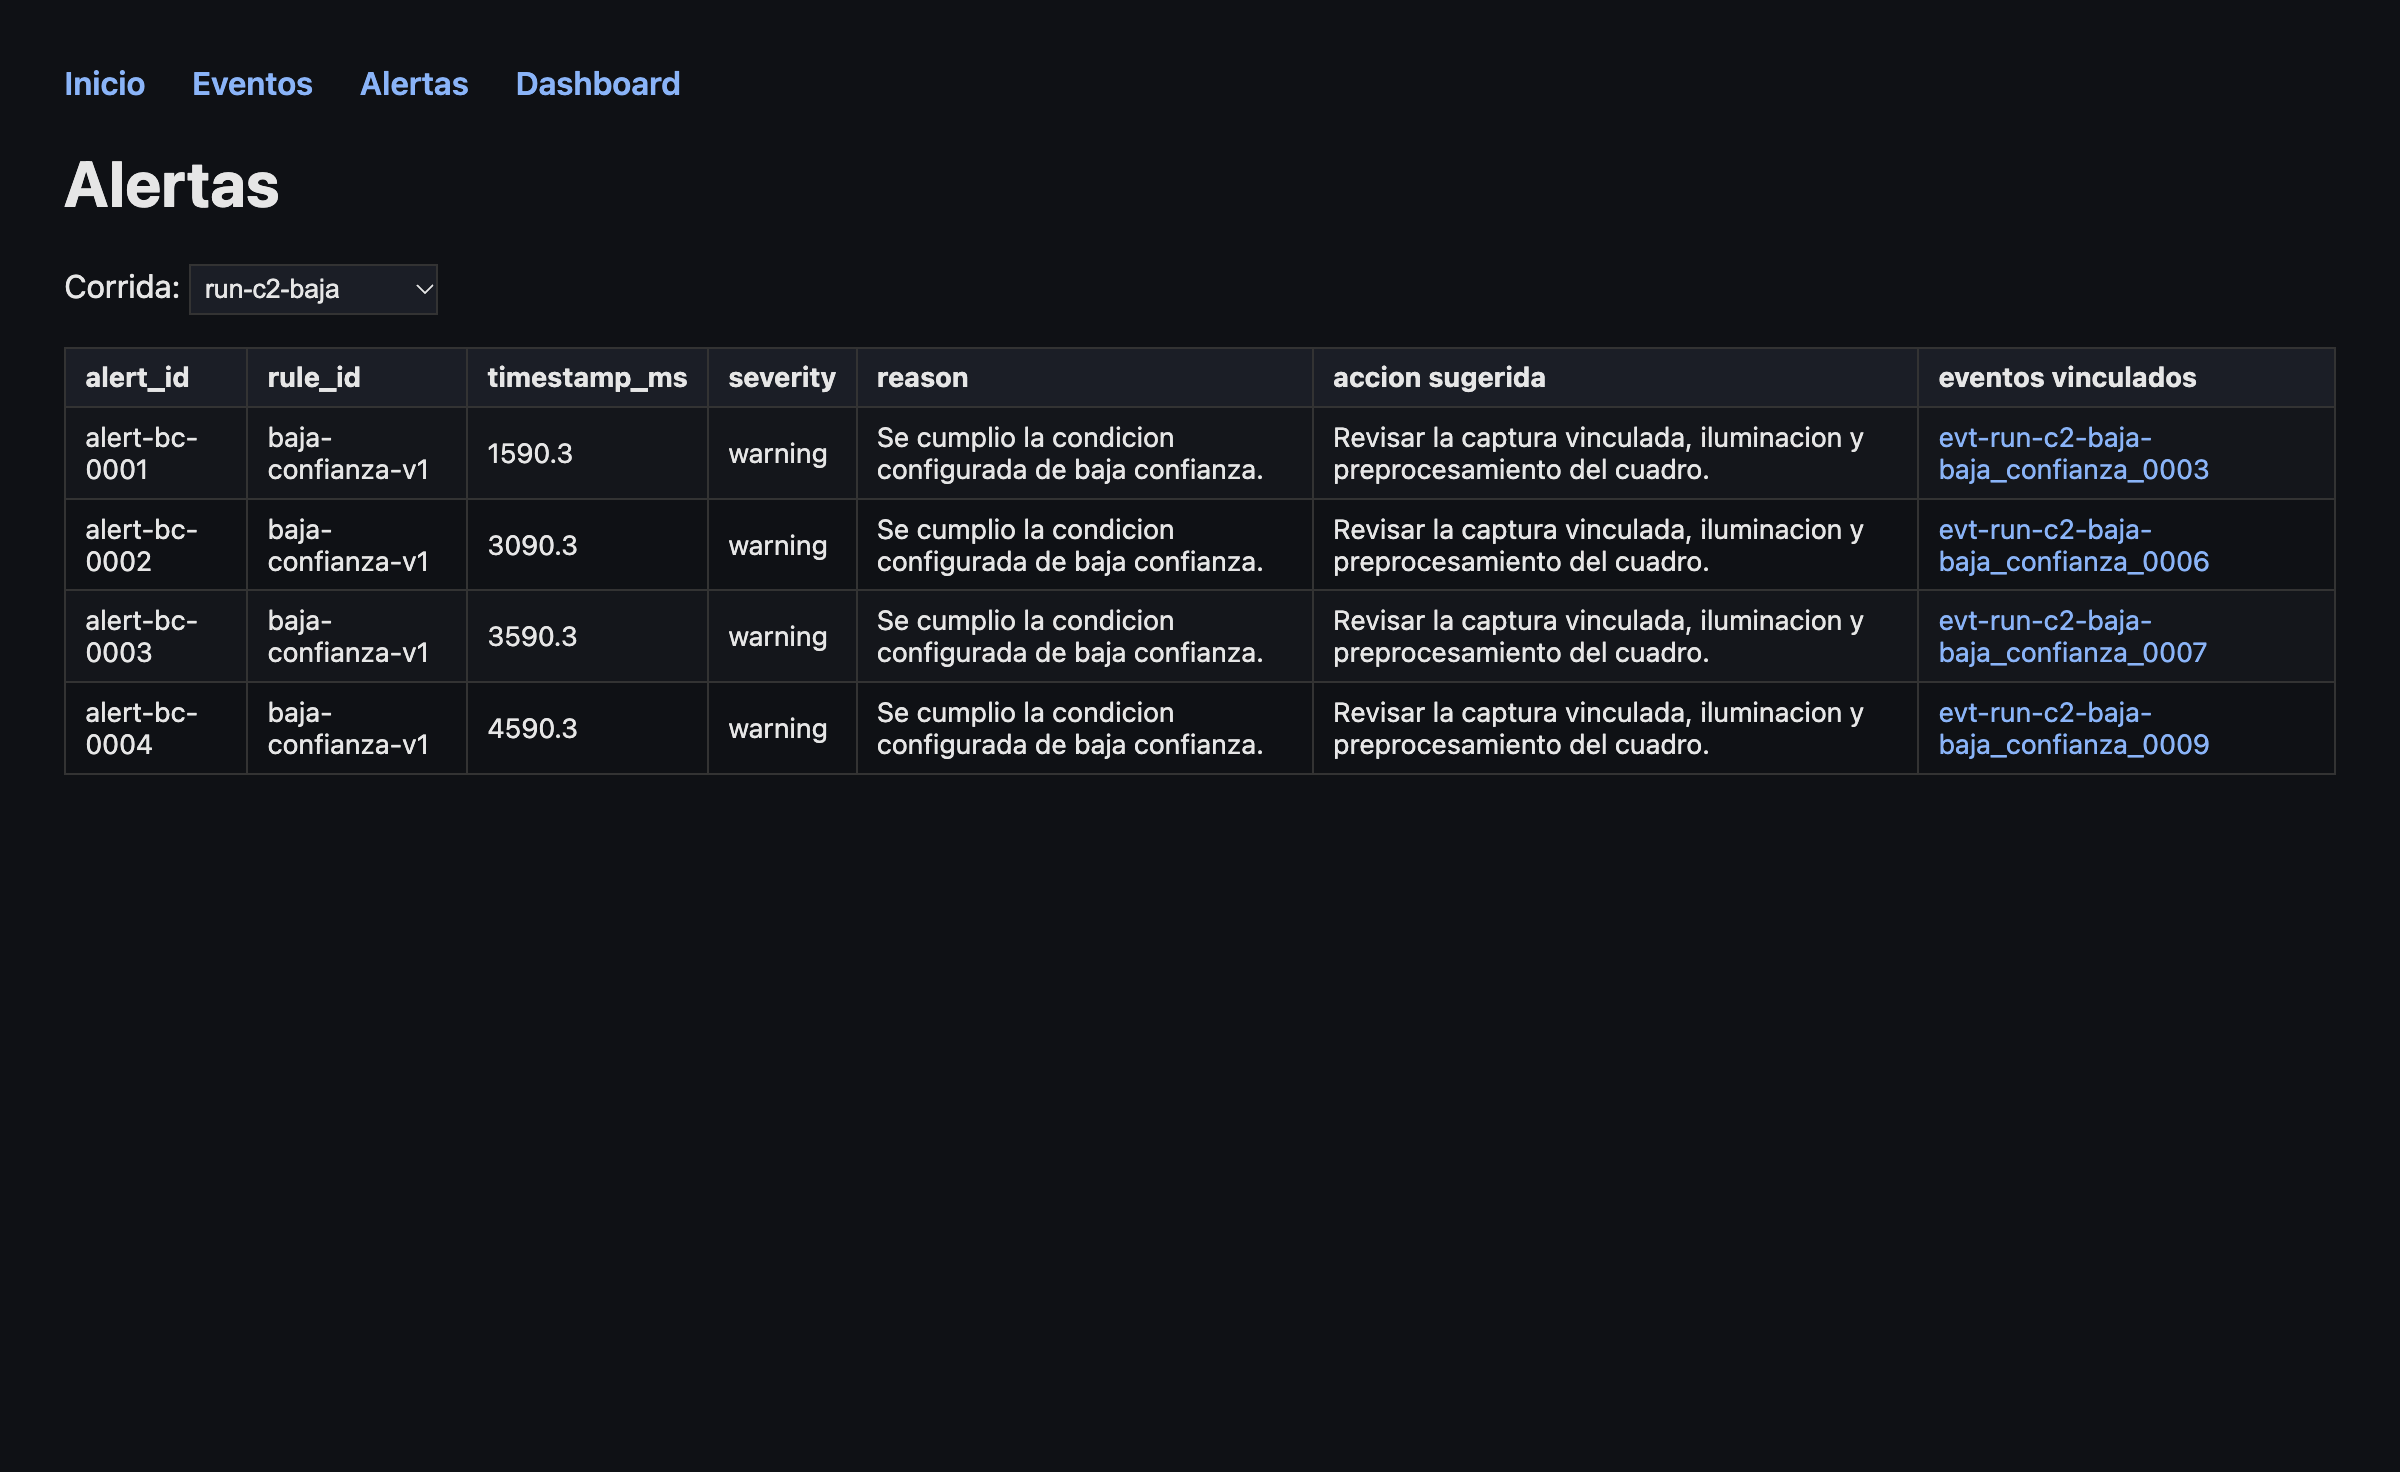
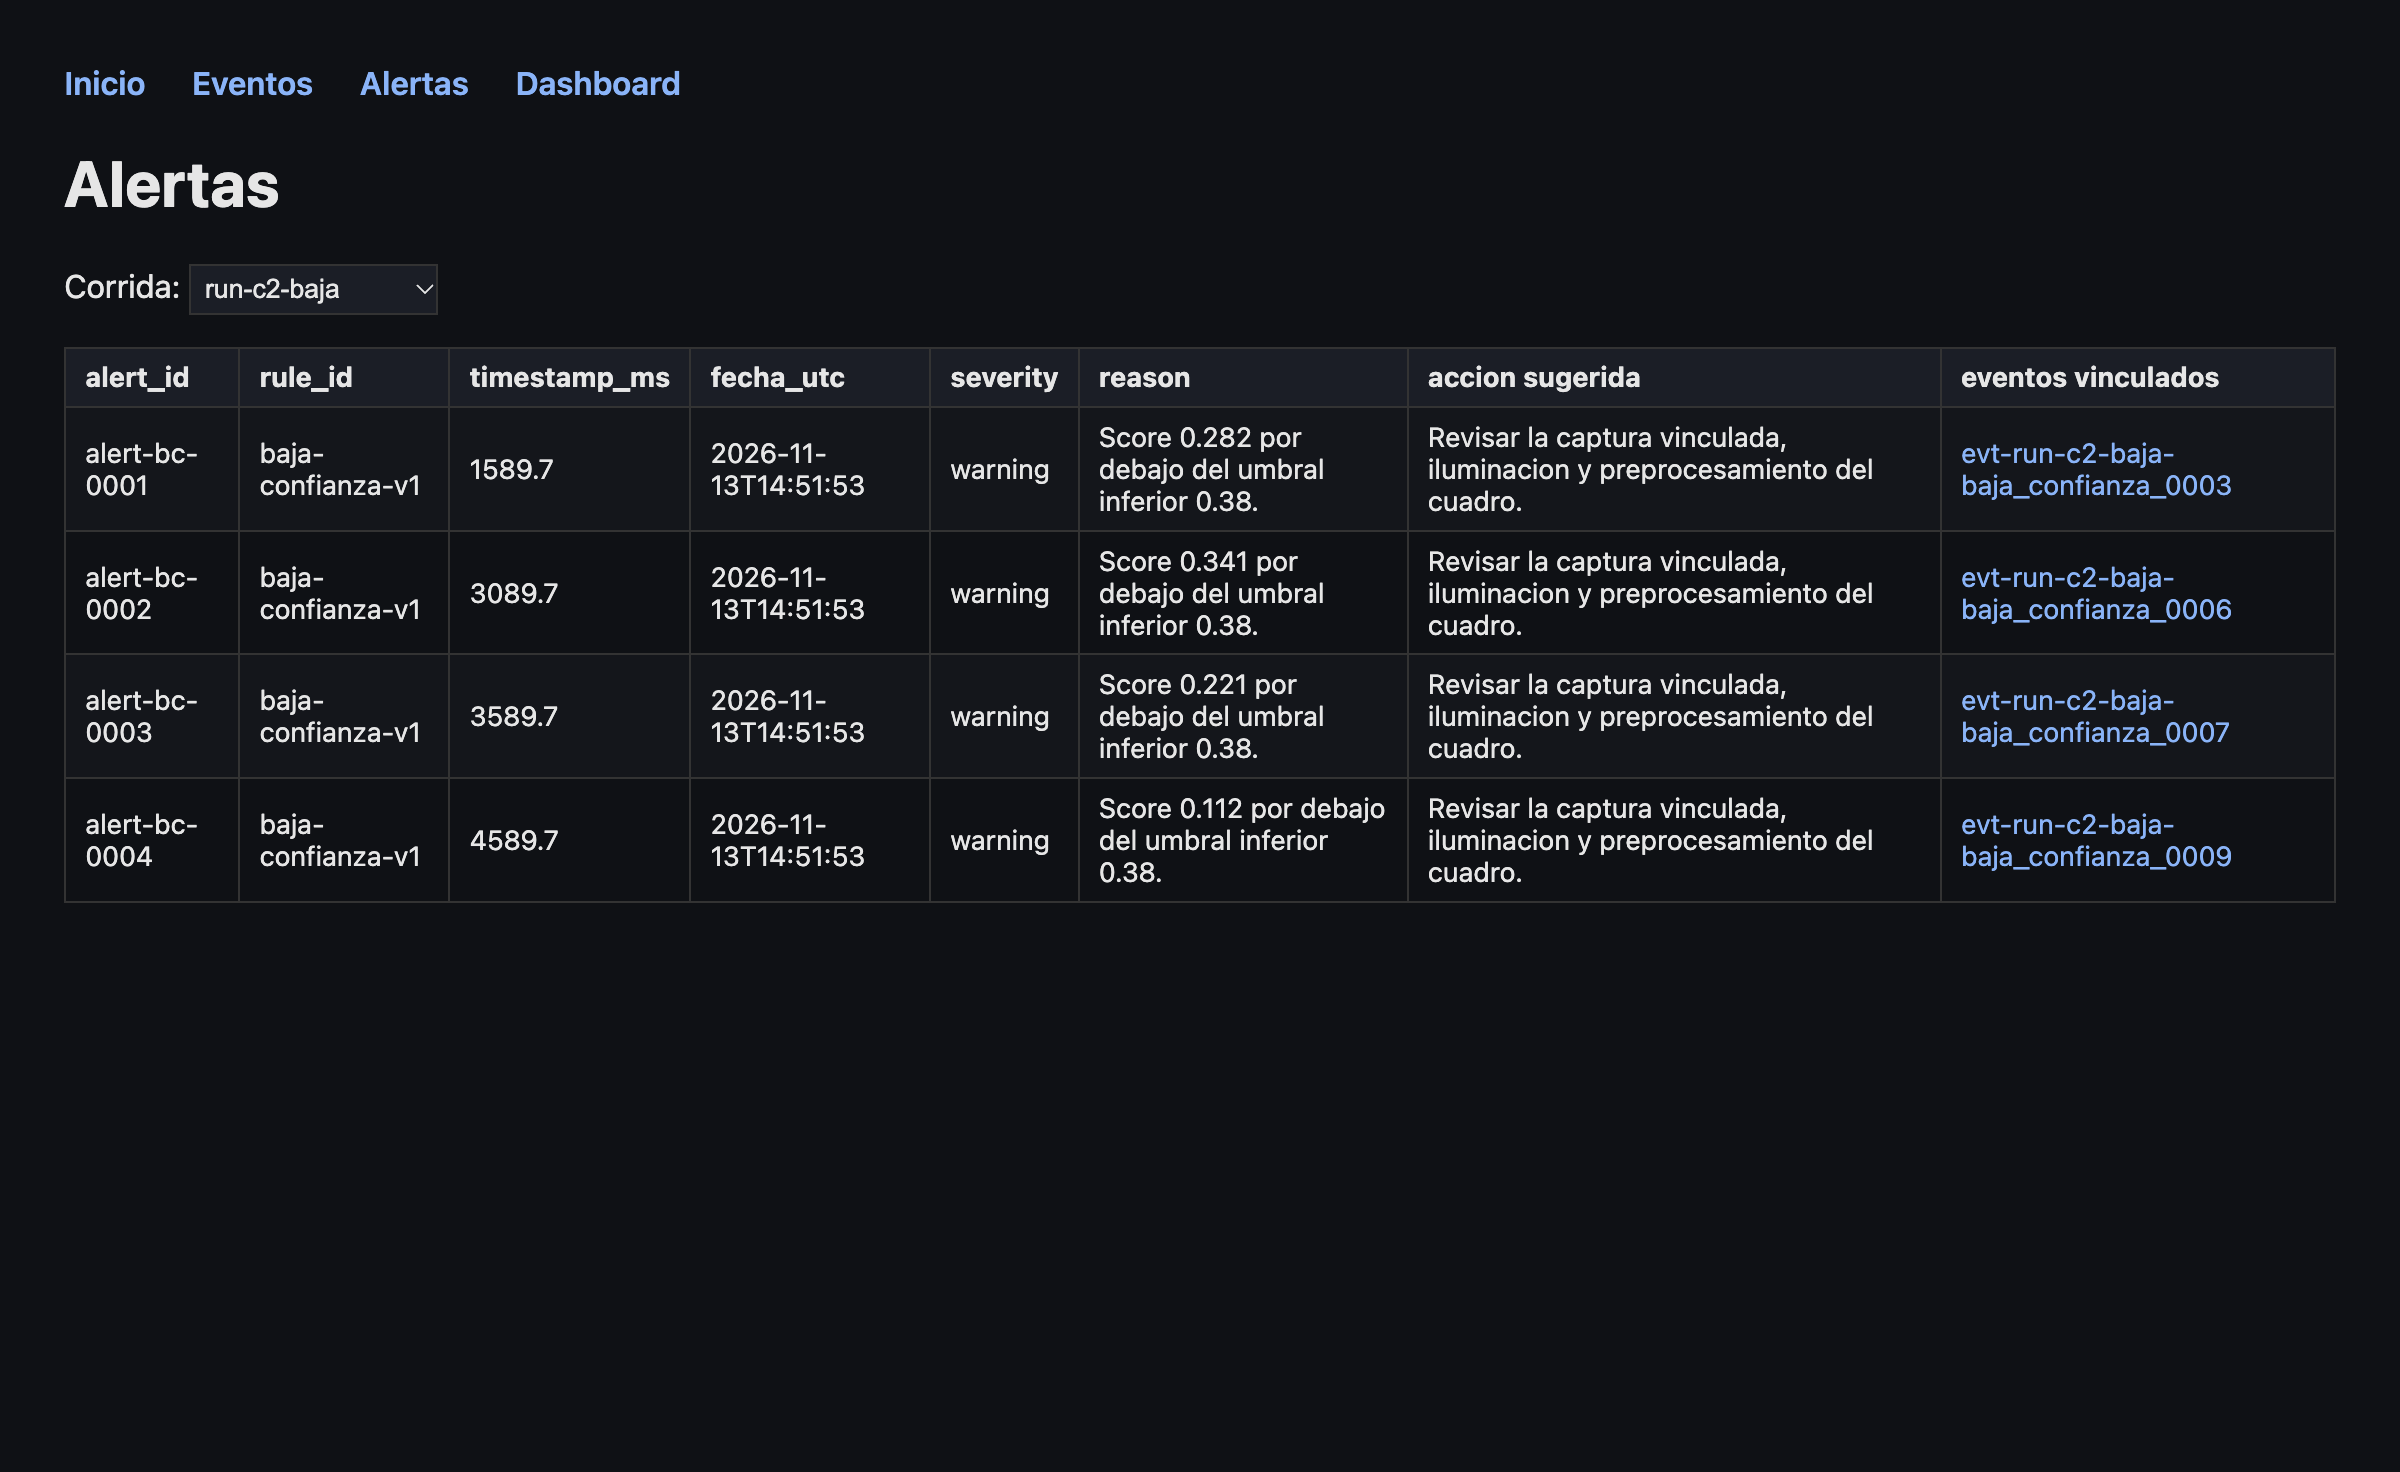
fix(p6): alertas con motivo real y fecha_utc; portal muestra mas columnas
Alerta gana fecha_utc (ISO-8601 UTC real), igual que Evento -- antes solo
llevaba timestamp_ms sintetico. baja-confianza-v1 ahora da un motivo
especifico ('Score 0.282 por debajo del umbral inferior 0.38'), no un texto
generico que no dice por que disparo (MotorAlertas.evaluar_evento recibe el
score y el umbral reales desde orquestador.procesar_frame).

La tabla de eventos del portal ahora muestra fecha_utc, model_ref y
config_ref (ya estaban en los datos, no se veian); la de alertas muestra
fecha_utc. Capturas del portal regeneradas para reflejar el nuevo layout.

C1, C2 y run-s-reconexion regenerados con las alertas enriquecidas;
clasificaciones identicas a las previas.

Changed region(s): [[0.0312, 0.25, 0.9375, 0.625], [0.0938, 0.5625, 0.2188, 0.5938], [0.0312, 0.5625, 0.0625, 0.5938]]

diff --git a/src/p6/portal/templates/eventos.html b/src/p6/portal/templates/eventos.html
@@ -21,18 +21,22 @@
 {% if eventos %}
 <table>
   <tr>
-    <th>event_id</th><th>frame_id</th><th>timestamp_ms</th><th>status</th>
-    <th>zona</th><th>clase</th><th>score</th><th>imagen</th>
+    <th>event_id</th><th>frame_id</th><th>timestamp_ms</th><th>fecha_utc</th>
+    <th>status</th><th>zona</th><th>clase</th><th>score</th>
+    <th>modelo</th><th>config_ref</th><th>imagen</th>
   </tr>
   {% for e in eventos %}
   <tr>
     <td>{{ e.event_id }}</td>
     <td>{{ e.frame_id }}</td>
     <td>{{ "%.1f"|format(e.timestamp_ms) }}</td>
+    <td>{{ e.fecha_utc[:19] if e.fecha_utc else "-" }}</td>
     <td>{{ e.status }}</td>
     <td class="zona-{{ e.confidence_zone }}">{{ e.confidence_zone }}</td>
     <td>{{ e.prediction.class_name if e.prediction else "-" }}</td>
     <td>{{ "%.3f"|format(e.prediction.score) if e.prediction else "-" }}</td>
+    <td>{{ e.model_ref }}</td>
+    <td>{{ e.config_ref }}</td>
     <td>
       {% if e.image_ref %}<a href="/imagenes?ruta={{ e.image_ref }}">ver</a>{% else %}-{% endif %}
     </td>

diff --git a/src/p6/portal/templates/alertas.html b/src/p6/portal/templates/alertas.html
@@ -13,14 +13,15 @@
 {% if alertas %}
 <table>
   <tr>
-    <th>alert_id</th><th>rule_id</th><th>timestamp_ms</th><th>severity</th>
-    <th>reason</th><th>accion sugerida</th><th>eventos vinculados</th>
+    <th>alert_id</th><th>rule_id</th><th>timestamp_ms</th><th>fecha_utc</th>
+    <th>severity</th><th>reason</th><th>accion sugerida</th><th>eventos vinculados</th>
   </tr>
   {% for a in alertas %}
   <tr>
     <td>{{ a.alert_id }}</td>
     <td>{{ a.rule_id }}</td>
     <td>{{ "%.1f"|format(a.timestamp_ms) }}</td>
+    <td>{{ a.fecha_utc[:19] if a.fecha_utc else "-" }}</td>
     <td>{{ a.severity }}</td>
     <td>{{ a.reason }}</td>
     <td>{{ a.suggested_action }}</td>

diff --git a/src/p6/alertas.py b/src/p6/alertas.py
@@ -7,7 +7,8 @@ from __future__ import annotations
 
 import json
 import sqlite3
-from dataclasses import asdict, dataclass
+from dataclasses import asdict, dataclass, field
+from datetime import UTC, datetime
 from pathlib import Path
 from typing import Any
 
@@ -15,16 +16,23 @@ from p6.confianza import ResultadoVentana
 from p6.config import ConfigAlertas
 
 
+def _ahora_utc_iso() -> str:
+    return datetime.now(UTC).isoformat()
+
+
 @dataclass(frozen=True)
 class Alerta:
     alert_id: str
     rule_id: str
-    timestamp_ms: float
+    timestamp_ms: float  # posicion sintetica en el stream, igual que Evento.timestamp_ms
     severity: str
     event_ids: tuple[str, ...]
     config_ref: str
     reason: str
     suggested_action: str
+    #: Fecha/hora real (UTC, ISO-8601) en que se genero la alerta -- mismo motivo que
+    #: Evento.fecha_utc (R4.1/R5.3): timestamp_ms es sintetico, no un reloj de pared.
+    fecha_utc: str = field(default_factory=_ahora_utc_iso)
 
     def a_dict(self) -> dict[str, Any]:
         datos = asdict(self)
@@ -47,10 +55,21 @@ class MotorAlertas:
         self._contador += 1
         return f"alert-{prefijo}-{self._contador:04d}"
 
-    def evaluar_evento(self, event_id: str, zona: str, timestamp_ms: float) -> Alerta | None:
+    def evaluar_evento(
+        self,
+        event_id: str,
+        zona: str,
+        timestamp_ms: float,
+        score: float | None = None,
+        umbral_inferior: float | None = None,
+    ) -> Alerta | None:
         regla = self._cfg.regla("baja_confianza")
         if regla is None or zona != "baja_confianza":
             return None
+        if score is not None and umbral_inferior is not None:
+            reason = f"Score {score:.3f} por debajo del umbral inferior {umbral_inferior:.2f}."
+        else:
+            reason = "Se cumplio la condicion configurada de baja confianza."
         return Alerta(
             alert_id=self._siguiente_id("bc"),
             rule_id=regla.id,
@@ -58,7 +77,7 @@ class MotorAlertas:
             severity=regla.severidad,
             event_ids=(event_id,),
             config_ref=self._config_ref,
-            reason="Se cumplio la condicion configurada de baja confianza.",
+            reason=reason,
             suggested_action=regla.accion_sugerida,
         )
 

diff --git a/tests/test_alertas.py b/tests/test_alertas.py
@@ -54,6 +54,32 @@ def test_evaluar_evento_en_zona_aceptada_no_genera_alerta():
     assert motor.evaluar_evento("evt-1", zona="aceptada", timestamp_ms=1000.0) is None
 
 
+def test_evaluar_evento_con_score_y_umbral_da_un_motivo_especifico():
+    motor = MotorAlertas(CFG_ALERTAS, config_ref="config-v1")
+    alerta = motor.evaluar_evento(
+        "evt-1", zona="baja_confianza", timestamp_ms=1000.0, score=0.123, umbral_inferior=0.38
+    )
+    assert alerta is not None
+    assert "0.123" in alerta.reason
+    assert "0.38" in alerta.reason
+
+
+def test_evaluar_evento_sin_score_mantiene_el_motivo_generico():
+    motor = MotorAlertas(CFG_ALERTAS, config_ref="config-v1")
+    alerta = motor.evaluar_evento("evt-1", zona="baja_confianza", timestamp_ms=1000.0)
+    assert alerta is not None
+    assert alerta.reason == "Se cumplio la condicion configurada de baja confianza."
+
+
+def test_alerta_tiene_fecha_utc_real():
+    import re
+
+    motor = MotorAlertas(CFG_ALERTAS, config_ref="config-v1")
+    alerta = motor.evaluar_evento("evt-1", zona="baja_confianza", timestamp_ms=1000.0)
+    assert alerta is not None
+    assert re.match(r"^\d{4}-\d{2}-\d{2}T", alerta.fecha_utc)
+
+
 def test_evaluar_evento_en_zona_duda_no_genera_alerta():
     motor = MotorAlertas(CFG_ALERTAS, config_ref="config-v1")
     assert motor.evaluar_evento("evt-1", zona="duda", timestamp_ms=1000.0) is None

diff --git a/src/p6/orquestador.py b/src/p6/orquestador.py
@@ -117,7 +117,13 @@ def procesar_frame(
     score = prediccion.score if prediccion is not None else None
     zona = zona_de(score, cfg_confianza) if status == "ok" else "sin_puntuacion"
 
-    alerta_evento = motor_alertas.evaluar_evento(event_id, zona, frame.timestamp_ms)
+    alerta_evento = motor_alertas.evaluar_evento(
+        event_id,
+        zona,
+        frame.timestamp_ms,
+        score=score,
+        umbral_inferior=cfg_confianza.umbral_inferior,
+    )
     captura, _razon = capturas.debe_capturar(zona, alerta_disparada=alerta_evento is not None)
     image_ref = capturas.capturar(event_id, frame.ruta) if captura else None
 

diff --git a/tests/test_orquestador.py b/tests/test_orquestador.py
@@ -129,6 +129,10 @@ def test_evento_en_baja_confianza_dispara_alerta_vinculada(tmp_path):
     assert len(alertas) == 1
     evento_id = resultado.almacen_eventos.listar(run_id="run-baja")[0]["event_id"]
     assert alertas[0]["event_ids"] == [evento_id]
+    # Motivo con el score y el umbral reales de esta corrida (R5.2/R5.3), no un texto
+    # generico que no diga por que disparo.
+    assert "0.30" in alertas[0]["reason"]
+    assert f"{CFG_CONFIANZA.umbral_inferior:.2f}" in alertas[0]["reason"]
     resultado.almacen_eventos.cerrar()
     resultado.almacen_alertas.cerrar()
 

diff --git a/evidencias/indice.md b/evidencias/indice.md
@@ -44,7 +44,7 @@ actualizacion del indice.
 | Criterio | Archivo / comando | Resultado |
 |---|---|---|
 | R4.1 | `src/p6/eventos.py` (`Evento`, `CAMPOS_EVENTO_OBLIGATORIOS`) | Evento completo: identidad, `timestamp_ms` (posicion sintetica en el stream) + `fecha_utc` (fecha/hora real, ISO-8601 UTC), fuente, modelo, estado, prediccion, zona de confianza, y `config_ref` como huella real de la configuracion (hash de `confianza.yaml`+`alertas.yaml`+`modelo.yaml`, no un texto fijo -- ver `p6.orquestador.calcular_config_ref`). `tests/test_eventos.py` verifica cobertura de campos. |
-| R4.2 | `src/p6/portal/app.py` (`/eventos`), `tests/test_portal.py`, `evidencias/portal/recorrido.md` | Eventos consultables y filtrables por corrida/zona en el portal, leidos directo de la base SQLite de la corrida. Recorrido reproducible (URLs reales) en `recorrido.md`. |
+| R4.2 | `src/p6/portal/app.py` (`/eventos`), `tests/test_portal.py`, `evidencias/portal/recorrido.md` | Eventos consultables y filtrables por corrida/zona en el portal, leidos directo de la base SQLite de la corrida; la tabla muestra `fecha_utc`, `model_ref` y `config_ref` ademas de la identidad/prediccion. Recorrido reproducible (URLs reales) en `recorrido.md`. |
 | R4.3 | `src/p6/capturas.py` (`PoliticaCapturas`) | Captura siempre en baja confianza o alerta, mas muestreo periodico en operacion normal; nunca sobreescribe ni borra. Evidencia real: `evidencias/escenarios/run-c1-normal/imagenes/`, `evidencias/escenarios/run-c2-baja/imagenes/`. |
 
 ## R5 -- Alertas (15 pts)
@@ -52,8 +52,8 @@ actualizacion del indice.
 | Criterio | Archivo / comando | Resultado |
 |---|---|---|
 | R5.1 | `config/alertas.yaml`, `src/p6/alertas.py` (`MotorAlertas`) | Cuatro reglas explicitas (`baja-confianza-v1`, `cambio-sostenido-v1`, y `fuente-interrumpida-v1`/`fuente-reconectada-v1` del extra S-01) con condicion, severidad y accion sugerida declaradas. |
-| R5.2 | `evidencias/escenarios/run-c1-normal/alertas.jsonl`, `evidencias/escenarios/run-c2-baja/alertas.jsonl` | Alertas generadas desde eventos reales de las corridas C1/C2, cada una vinculada a su `event_id`, `config_ref` y motivo. |
-| R5.3 | `src/p6/portal/app.py` (`/alertas`), `tests/test_portal.py`, `evidencias/portal/recorrido.md` | Alertas visibles en el portal con momento, motivo, severidad, accion sugerida y enlace a la imagen del evento vinculado. |
+| R5.2 | `evidencias/escenarios/run-c1-normal/alertas.jsonl`, `evidencias/escenarios/run-c2-baja/alertas.jsonl` | Alertas generadas desde eventos reales de las corridas C1/C2, cada una vinculada a su `event_id`, `config_ref` y motivo. El motivo de `baja-confianza-v1` incluye el score y el umbral reales (ej. "Score 0.282 por debajo del umbral inferior 0.38"), no un texto generico -- `src/p6/alertas.py::MotorAlertas.evaluar_evento`, probado en `tests/test_alertas.py` y `test_orquestador.py`. |
+| R5.3 | `src/p6/portal/app.py` (`/alertas`), `tests/test_portal.py`, `evidencias/portal/recorrido.md` | Alertas visibles en el portal con momento (`timestamp_ms` + `fecha_utc` real), motivo, severidad, accion sugerida y enlace a la imagen del evento vinculado. |
 
 ## R6 -- Demostracion obligatoria (10 pts)
 
@@ -83,5 +83,5 @@ solicitado, evidencia) de cada uno:
 
 ## Verificacion tecnica
 
-`ruff check .`, `ruff format --check .` y `pytest -q` (141 pruebas) en verde;
+`ruff check .`, `ruff format --check .` y `pytest -q` (144 pruebas) en verde;
 CI (`.github/workflows/ci.yml`) corre lo mismo en cada push/PR a `main`.

diff --git a/README.md b/README.md
@@ -161,7 +161,7 @@ ruff format --check .
 pytest -q
 ```
 
-141 pruebas, todas en verde; CI (`.github/workflows/ci.yml`) corre lo mismo en
+144 pruebas, todas en verde; CI (`.github/workflows/ci.yml`) corre lo mismo en
 cada push/PR a `main`.
 
 ## Limites conocidos
